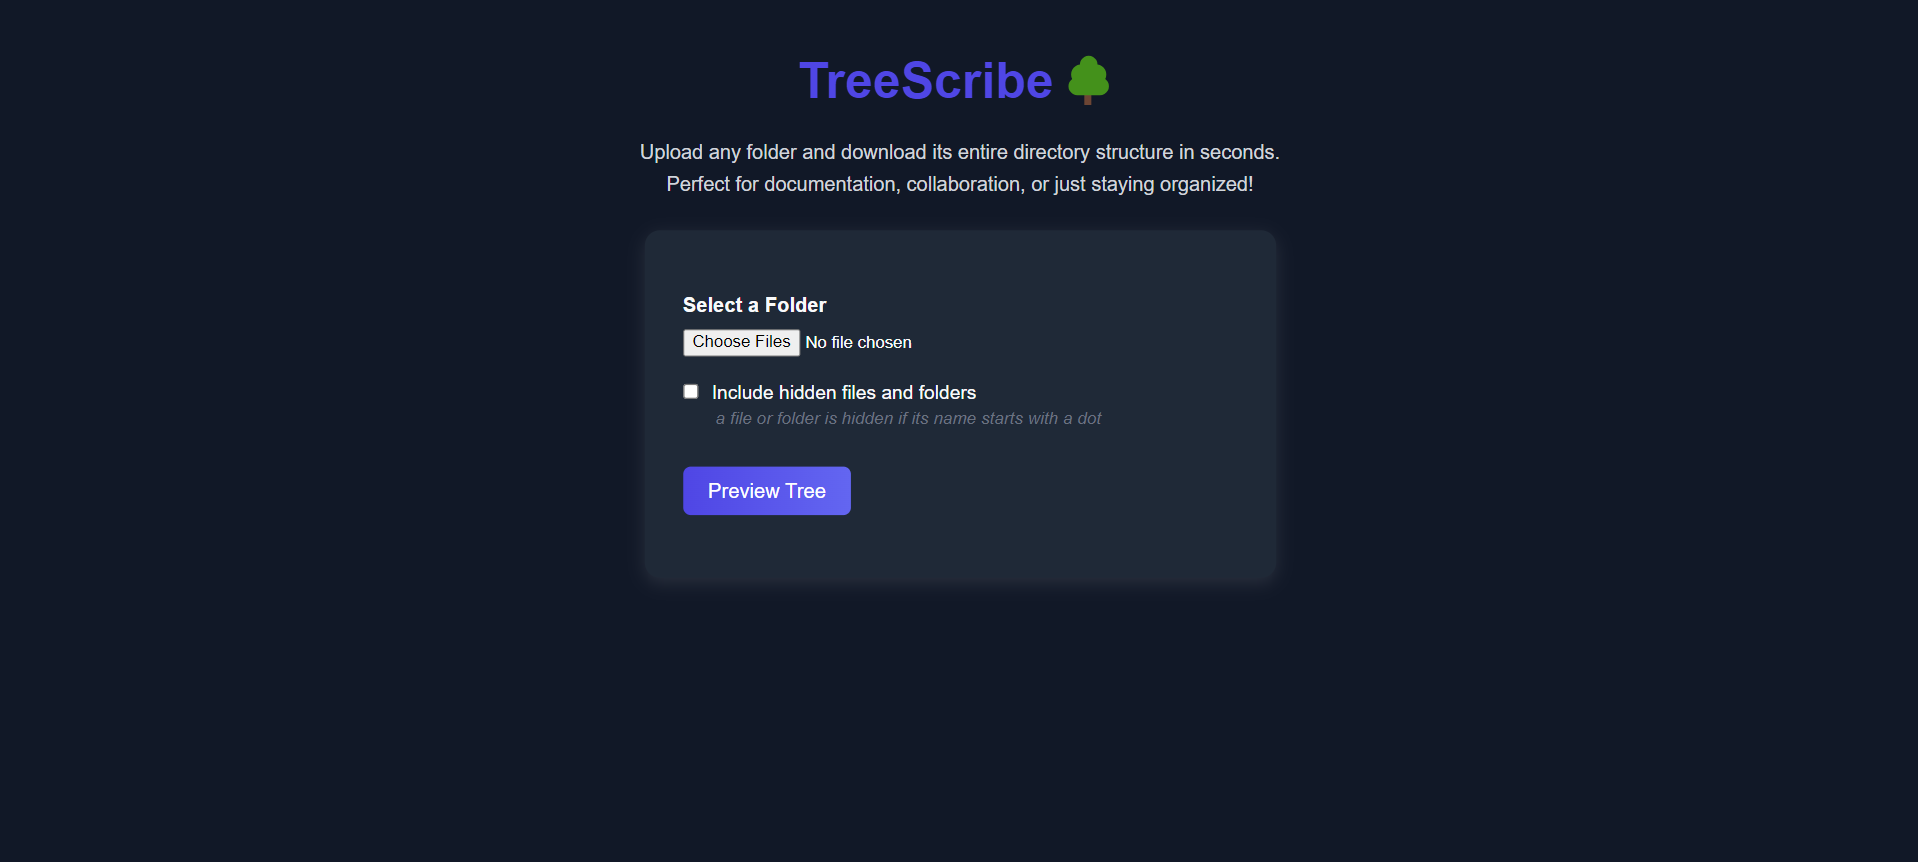
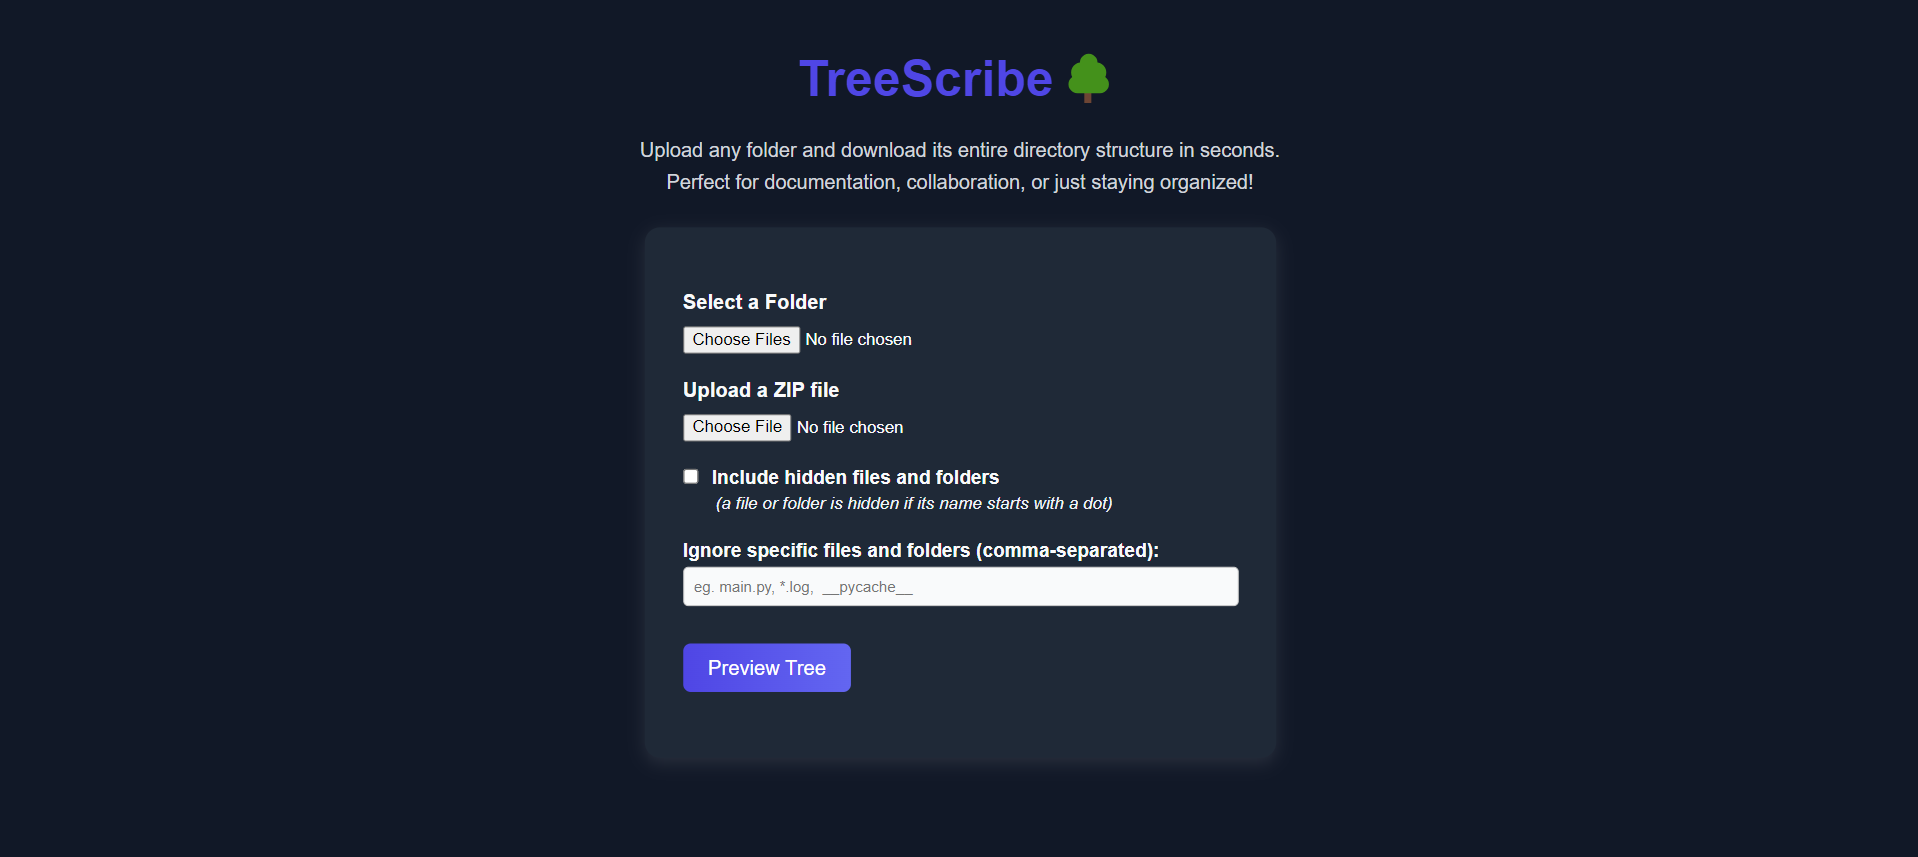
added ZIP file support for larger directories

diff --git a/templates/index.html b/templates/index.html
@@ -51,7 +51,7 @@
     form {
       background: white;
       padding: 30px;
-      min-height: 275px;
+      min-height: 420px;
       border-radius: 12px;
       box-shadow: 0 4px 14px rgba(0, 0, 0, 0.1);
       width: 100%;
@@ -85,7 +85,7 @@
     .checkbox-group label {
       display: flex;
       align-items: flex-start;
-      font-weight: normal;
+      font-weight: 600;
       font-size: 0.95rem;
     }
 
@@ -96,10 +96,30 @@
 
     .checkbox-description {
       font-size: 0.85rem;
-      color: #6b7280;
+      color: #f1f5f9;
       margin-top: 4px;
       margin-left: 26px;
       font-style: italic;
+    }
+
+    .ignore-group {
+      margin-top: 20px;
+    }
+
+    .ignore-group label {
+      display: block;
+      font-weight: 600;
+      font-size: 0.95rem;
+      margin-bottom: 4px;
+    }
+
+    .ignore-group input {
+      width: 100%;
+      padding: 8px;
+      border-radius: 4px;
+      border: 1px solid #ccc;
+      background-color: #f9fafb;
+      font-size: 0.75rem;
     }
 
     button[type="submit"], .download-btn {
@@ -156,7 +176,10 @@
 
   <form id="treeForm">
     <label for="files">Select a Folder</label>
-    <input type="file" name="files" id="folderInput" webkitdirectory directory multiple required />
+    <input type="file" name="files" id="folderInput" webkitdirectory directory multiple />
+
+    <label for="zipInput">Upload a ZIP file</label>
+    <input type="file" name="zip_upload" id="zipInput" accept=".zip" />
 
     <div class="checkbox-group">
       <label>
@@ -164,11 +187,18 @@
         Include hidden files and folders
       </label>
       <div class="checkbox-description">
-        <em>a file or folder is hidden if its name starts with a dot</em>
+        <em>(a file or folder is hidden if its name starts with a dot)</em>
       </div>
     </div>
 
-    <button type="submit">Preview Tree</button>
+    <div class="ignore-group">
+      <label for="ignore-list">
+        Ignore specific files and folders (comma-separated):
+      </label>
+      <input type="text" name="ignore_list" id="ignore-list" placeholder="eg. main.py, *.log,  __pycache__">
+    </div>
+
+    <button id="preview-btn" type="submit">Preview Tree</button>
   </form>
 
   <pre id="preview"></pre>
@@ -178,30 +208,68 @@
     const form = document.getElementById('treeForm');
     const preview = document.getElementById('preview');
     const downloadBtn = document.getElementById('downloadBtn');
+    const previewBtn = document.getElementById("preview-btn");
 
     form.addEventListener('submit', async (e) => {
-        e.preventDefault();
+      e.preventDefault();
 
-        const formData = new FormData();
-        const files = document.getElementById('folderInput').files;
-        const includeHidden = document.getElementById('includeHidden').checked;
+      previewBtn.disabled = true;
+      previewBtn.textContent = "Previewing...";
 
-        for (const file of files) {
-        formData.append('files', file);
+      const formData = new FormData();
+      const folderInput = document.getElementById('folderInput');
+      const zipInput = document.getElementById('zipInput');
+      const includeHidden = document.getElementById('includeHidden').checked;
+      const ignoreList = document.getElementById('ignore-list').value;
+
+      const folderFiles = folderInput.files;
+      const zipFile = zipInput.files[0];
+
+      if (zipFile && folderFiles.length > 0) {
+        alert("Please upload either a folder or a ZIP file, not both.");
+        previewBtn.disabled = false;
+        previewBtn.textContent = "Preview Tree";
+        return;
+      }
+
+      if (folderFiles.length > 1000) {
+        alert("Limit of 1000 files. Please use a ZIP file.");
+        previewBtn.disabled = false;
+        previewBtn.textContent = "Preview Tree";
+        return;
+      }
+
+      if (folderFiles.length > 0) {
+        for (const file of folderFiles) {
+          formData.append('files', file);
         }
-        if (includeHidden) {
-        formData.append('include_hidden', 'on');
-        }
+      } else if (zipFile) {
+        formData.append('zip_upload', zipFile);
+      } else {
+        alert("Please upload a folder or a ZIP file.");
+        previewBtn.disabled = false;
+        previewBtn.textContent = "Preview Tree";
+        return;
+      }
 
+      if (includeHidden) formData.append('include_hidden', 'on');
+      formData.append('ignore_list', ignoreList);
+
+      try {
         const res = await fetch('/upload-preview', {
-        method: 'POST',
-        body: formData,
+          method: 'POST',
+          body: formData,
         });
-
         const text = await res.text();
         preview.textContent = text;
         preview.style.display = 'block';
         downloadBtn.style.display = 'inline-block';
+      } catch (err) {
+        preview.textContent = "Error generating tree.";
+      }
+
+      previewBtn.disabled = false;
+      previewBtn.textContent = "Preview Tree";
     });
 
     document.getElementById("downloadBtn").addEventListener("click", () => {

diff --git a/main.py b/main.py
@@ -1,10 +1,10 @@
 # main.py
 from fastapi import FastAPI, UploadFile, File, Form, Request
-from fastapi.responses import HTMLResponse, FileResponse
+from fastapi.responses import HTMLResponse, FileResponse, PlainTextResponse
 from fastapi.staticfiles import StaticFiles
 from fastapi.templating import Jinja2Templates
-from typing import List
-import os
+from typing import List, Optional
+import os, zipfile, tempfile
 
 app = FastAPI()
 
@@ -22,22 +22,82 @@ def download_tree():
 
 @app.post("/upload-preview")
 async def upload_preview(
-    files: List[UploadFile] = File(...),
-    include_hidden: str = Form(default="off")
+    request: Request,
+    files: Optional[List[UploadFile]] = File(None),
+    zip_upload: Optional[UploadFile] = File(None),
+    include_hidden: str = Form(default="off"),
+    ignore_list: Optional[str] = Form(default="")
 ):
-    # reuse your existing logic, but return `PlainTextResponse(output)` instead of FileResponse
-    from fastapi.responses import PlainTextResponse
-
     include_hidden = include_hidden == "on"
-    file_paths = [f.filename for f in files]
-    root_folder = file_paths[0].split('/')[0]
+    ignore_names = [name.strip() for name in ignore_list.split(',') if name.strip()]
 
-    stripped = [p[len(root_folder) + 1:] for p in file_paths if p.startswith(root_folder + "/")]
-    if not include_hidden:
-        stripped = [path for path in stripped if not any(part.startswith('.') for part in path.split('/'))]
+    def should_ignore(path):
+        parts = path.split('/')
+        return any(
+            part.startswith('.') and not include_hidden or
+            any(part == pattern for pattern in ignore_names)
+            for part in parts
+        )
+    
+    def is_user_intentionally_ignoring(path):
+        # Looser check: match if any ignore pattern is a substring of the path.
+        lowered_path = path.lower()
+        return any(pattern.lower() in lowered_path for pattern in ignore_names)
+
+    if zip_upload:
+        with tempfile.TemporaryDirectory() as tmpdirname:
+            zip_path = os.path.join(tmpdirname, "upload.zip")
+            with open(zip_path, "wb") as f:
+                f.write(await zip_upload.read())
+            with zipfile.ZipFile(zip_path, 'r') as zip_ref:
+                skipped = []
+                MAX_PATH_LEN = 250  # Conservative limit to avoid Windows errors
+
+                for member in zip_ref.infolist():
+                    extracted_path = os.path.normpath(os.path.join(tmpdirname, *member.filename.split('/')))
+
+                    # Skip paths that are too long (Windows path limit ~260)
+                    if len(extracted_path) > MAX_PATH_LEN:
+                        # print(f"[SKIP – too long] {member.filename}")
+                        if not is_user_intentionally_ignoring(member.filename):
+                            skipped.append(member.filename)
+                        continue
+
+                    # Prevent zip-slip attacks
+                    if not extracted_path.startswith(os.path.abspath(tmpdirname)):
+                        continue
+
+                    try:
+                        zip_ref.extract(member, tmpdirname)
+                    except Exception as e:
+                        # print(f"[EXTRACT FAIL] {member.filename} -> {e}")
+                        if not is_user_intentionally_ignoring(member.filename):
+                            skipped.append(member.filename)
+
+            # Assume the first folder in the zip is root
+            root_folder = next((f for f in os.listdir(tmpdirname) if os.path.isdir(os.path.join(tmpdirname, f))), None)
+            if not root_folder:
+                return PlainTextResponse("Invalid ZIP: no folder found", status_code=400)
+            root_path = os.path.join(tmpdirname, root_folder)
+
+            file_paths = []
+            for dirpath, _, filenames in os.walk(root_path):
+                for filename in filenames:
+                    full_path = os.path.join(dirpath, filename)
+                    rel_path = os.path.relpath(full_path, root_path)
+                    file_paths.append(rel_path.replace("\\", "/"))
+    else:
+        if not files:
+            return PlainTextResponse("No files uploaded", status_code=400)
+
+        file_paths = [f.filename for f in files]
+        root_folder = file_paths[0].split('/')[0]
+        file_paths = [p[len(root_folder) + 1:] for p in file_paths if p.startswith(root_folder + "/")]
+
+    filtered = [p for p in file_paths if not should_ignore(p)]
 
     tree = {}
-    for path in stripped:
+    for path in filtered:
         parts = path.split('/')
         current = tree
         for part in parts[:-1]:
@@ -57,6 +117,10 @@ async def upload_preview(
 
     output_lines = [f"{root_folder}/"] + format_tree(tree)
     output = "\n".join(output_lines)
+
+    # Append zip warning if needed
+    if zip_upload and skipped:
+        output += f"\n\n⚠Skipped {len(skipped)} file(s) due to long path errors in extraction."
     with open("directory_structure.txt", "w", encoding="utf-8") as f:
         f.write(output)
 

diff --git a/README.md b/README.md
@@ -10,6 +10,7 @@
             <td><a href="#why-this-app">Why This App?</a></td>
             <td><a href="#technologies-used">Technologies Used</a></td>
             <td><a href="#deployment--production-notes">Deployment & Production Notes</a></td>
+            <td><a href="#local-developement">Local Developement</a></td>
         </tr>
         <tr>
             <td><a href="#future-improvements">Future Improvements</a></td>
@@ -29,15 +30,18 @@
 
 > Visualize your folder’s DNA — *instantly*. [Try the Live Web Application](https://web-production-7ebec6.up.railway.app/)
 
-**TreeScribe** is a simple web app that lets you upload any directory and instantly generate a clean, text-based representation of its folder structure. You can preview it in your browser and download the result as a `.txt` file. It’s especially useful for developers, writers, and teams that want to document project structures or maintain consistent folder organization.
+**TreeScribe** is a simple web app that lets you upload any directory or zip file and instantly generate a clean, text-based representation of its folder structure. You can preview it in your browser and download the result as a `.txt` file. It’s especially useful for developers, writers, and teams that want to document project structures or maintain consistent folder organization.
 
 ---
 
 ## Features
 
-- Upload a directory to automatically generate a `tree`-style folder structure
+- Upload a directory or zip file to automatically generate a `tree`-style folder structure
 - Toggle inclusion of hidden files and folders
+- Input specific file/folder names to ignore (e.g., `node_modules, dist, __pycache__`)
+- Automatically block uploads with too many files (to avoid browser or server overload)
 - Live preview of the directory tree before download
+- Notify user of long path errors
 - Export as `.txt` with a single click
 
 ---
@@ -45,6 +49,10 @@
 ## Screenshots
 
 | ![screenshot](screenshots/landing-preview.png) |
+|:--:|
+| *Landing page showing upload and customization options* |
+
+| ![screenshot](screenshots/final-preview.png) |
 |:--:|
 | *Landing page showing directory preview and export options* |
 
@@ -80,17 +88,22 @@ Directory trees are essential in documentation, especially for open-source proje
   web: uvicorn main:app --host 0.0.0.0 --port $PORT
   ```
 
-### Future Improvements
+## Local Developement
+  ```
+  python -m uvicorn main:app --reload
+  ```
+
+## Future Improvements
 - Add ability to download .md or .html versions
 - Visual (graph-based) folder map rendering
 - Drag-and-drop folder upload
 - Add cloud drive integrations (Google Drive, Dropbox)
 - File search and filter support
 
-### Feedback
+## Feedback
 Open an issue or suggestion on GitHub — feedback is welcome!
 
-### Contact
+## Contact
 Mohammad Nusairat — mnusairat2003@gmail.com
 
 <p align="right"><a href="#introduction">back to top ⬆</a></p>
